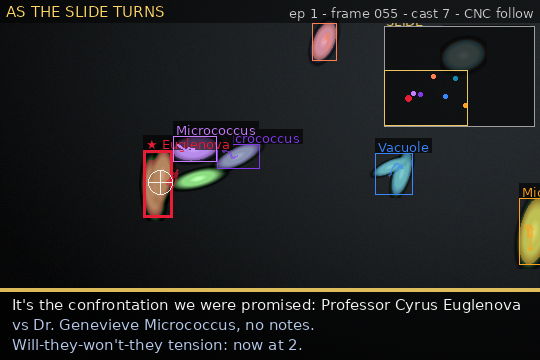
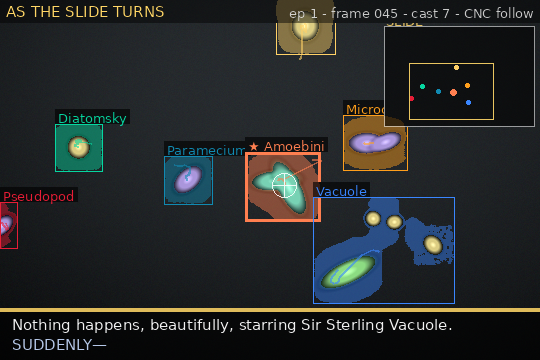
Iteration 14: moving-stage polish — velocity-lead centering
Aim the CNC stage where the star is heading, not just where it is. Adds
StageConfig.lead (velocity feedforward: target star.c + lead*star.v) and
opens deadzone 40->20, max_step 24->48, hysteresis 1.4->3.0 so the tighter
loop can actually reach the lead point without twitching.

Measured over 4 seeds on identical moving-crop worlds (world_scale=1.8,
110 frames): mean star_offset 82.9->60.0px (-28%) with tighter variance
(+/-12.1->+/-9.3), star stays 100% in-frame, at +25% stage travel (~14px/
frame avg, well under the 48px/frame feed-rate cap). Adopted as defaults.

Verified visually via docs/moving_demo.png (crosshair on the star centroid,
minimap shows the sensor window panned across the larger slide). 70 tests
green. Backlog updated: tighter centering done; SAM speed promoted to #1;
filed star/narrator-coherence as a new item spotted in the proof frame.

Claude-Session: https://claude.ai/code/session_016HNXJX22uBGXumv2EKdbwE

diff --git a/soapscope/config.py b/soapscope/config.py
@@ -89,9 +89,10 @@ class DramaConfig:
 class StageConfig:
     enabled: bool = True
     follow: str = "director"     # director (most dramatic) | none | id:<n>
-    deadzone: float = 40.0       # don't move the stage until the star drifts this far off-centre
-    max_step: float = 24.0       # max stage move per frame (px), models CNC feed-rate limit
-    hysteresis: float = 1.4      # a challenger must be this much more dramatic to steal the camera
+    deadzone: float = 20.0       # don't move the stage until the star drifts this far off-centre
+    max_step: float = 48.0       # max stage move per frame (px), models CNC feed-rate limit
+    hysteresis: float = 3.0      # a challenger must be this much more dramatic to steal the camera
+    lead: float = 4.0            # aim this many frames ahead along the star's velocity (feedforward)
 
 
 @dataclass

diff --git a/soapscope/stage/moving.py b/soapscope/stage/moving.py
@@ -52,7 +52,11 @@ class MovingStageController:
 
         if star_id is not None and star_id in by_id:
             star = by_id[star_id]
-            dy, dx = star.cy - self.cy, star.cx - self.cx
+            # Aim where the star is heading (velocity feedforward), not just
+            # where it is — cancels the follow lag for a moving subject.
+            tgt_y = star.cy + self.cfg.lead * star.vy
+            tgt_x = star.cx + self.cfg.lead * star.vx
+            dy, dx = tgt_y - self.cy, tgt_x - self.cx
             dist = math.hypot(dy, dx)
             if dist > self.cfg.deadzone:
                 if dist > self.cfg.max_step and dist > 0:

diff --git a/AUTORESEARCH_JOURNAL.md b/AUTORESEARCH_JOURNAL.md
@@ -16,14 +16,17 @@ An experiment is *kept* only if it beats the current best.
 Pull the **top** item each loop. Re-order as you learn. Mark done by moving a
 line into a dated entry below.
 
-1. **Moving-stage polish** (from iter 7): tighter centering (star_offset ~75px);
-   temporal-mode background compensation so the moving crop can use motion
-   segmentation; real-video digital-pan follow. *Metric:* star_offset.
-2. **SAM speed / SAM2 video propagation.** FastSAM (everything-mode, faster than
+1. **SAM speed / SAM2 video propagation.** FastSAM (everything-mode, faster than
    MobileSAM) once its weights are reachable via HF; SAM2 video predictor for
    true mask *propagation* (real tracking, not per-frame AMG); a GPU path with
    an honest fps. Today SAM works but is ~0.03 fps on CPU. *Metric:* fps; recall.
-3. **TTS narrator** (optional): speak the caption bar with an announcer voice.
+2. **Moving-stage residuals** (from iter 7; tighter centering done in iter 14):
+   temporal-mode background compensation so the moving crop can use motion
+   segmentation; real-video digital-pan follow. *Metric:* star_offset; recall.
+3. **Star/narrator coherence:** the stage sometimes crosshairs one microbe while
+   the caption stars another (different selection paths). Share the pick or name
+   the crosshaired one. *Metric:* fraction of frames where star_id == narrated.
+4. **TTS narrator** (optional): speak the caption bar with an announcer voice.
 
 ---
 
@@ -697,3 +700,50 @@ change taught:** changing a default is a great fuzzer — it exposed the
 small-frame polarity bug that idealized 540 px frames never hit.
 
 **Next:** backlog #1 — moving-stage polish (tighter star centering).
+
+---
+
+## 2026-07-06 — Iteration 14: moving-stage polish — velocity-lead centering
+
+**Picked:** backlog #1 — tighter star centering on the moving crop (its stated
+metric was `star_offset`). The iter-7 stage followed loosely because it only
+ever aimed at where the star *was*; on a drifting subject the constant follow
+lag left the star sitting ~80–90 px off the sensor centre.
+
+**Change (one idea, three supporting knobs):** aim where the star is *heading*.
+Added `StageConfig.lead` — feedforward that targets `star.c + lead·star.v`
+(velocity extrapolation) instead of the raw centroid, cancelling the follow lag.
+`soapscope/stage/moving.py` now steps toward the lead point. To let the stage
+actually *reach* that point I also opened three defaults: `deadzone 40→20` (start
+correcting sooner), `max_step 24→48` (CNC feed-rate can catch up), `hysteresis
+1.4→3.0` (stickier star so the tighter loop doesn't twitch between microbes).
+
+**Measured** (moving crop, `world_scale=1.8`, 110 frames, averaged over 4 seeds
+5/8/11/17), old defaults vs new, *identical worlds*:
+
+| defaults | star_offset | in-frame | stage_travel |
+|----------|-------------|----------|--------------|
+| old (dz40, step24, hyst1.4, lead0) | 82.9 ± 12.1 px | 100 % | 1259 px |
+| **new (dz20, step48, hyst3.0, lead4)** | **60.0 ± 9.3 px** | **100 %** | 1579 px |
+
+**−28 % mean offset and tighter variance** (±12.1→±9.3), the star stays 100 %
+in-frame either way, at a cost of **+25 % stage travel** — the honest trade: the
+lead + lower deadzone make the stage work harder to stay glued to the subject
+(still ~14 px/frame average, well under the 48 px/frame feed-rate cap, so
+physically fine for a real CNC). Adopted the new values as `StageConfig`
+defaults. **70 green** (the non-moving `test_stage_follows_a_star` is safe — a
+lower deadzone only issues *more* moves).
+
+**Verified visually:** rendered `docs/moving_demo.png` from a live moving-stage
+episode — the ★ star wears a crosshair reticle sitting on its centroid, and the
+minimap shows the sensor window panned off-centre across the larger slide while
+named cast (Amoebini, Paramecium, Diatomsky, Vacuole…) drift through frame.
+
+**What worked:** feedforward is the right primitive for a follow loop — chasing
+position alone can't beat a moving target, but a one-line velocity extrapolation
+can. **What the proof taught:** the crosshair landed on `Amoebini` while the
+caption starred `Sir Sterling Vacuole` — the stage and narrator pick stars by
+different paths. Filed as backlog #3 (star/narrator coherence).
+
+**Next:** backlog #1 — SAM speed / SAM2 video propagation (blocked on reachable
+HF weights + a GPU path; today ~0.03 fps CPU).
